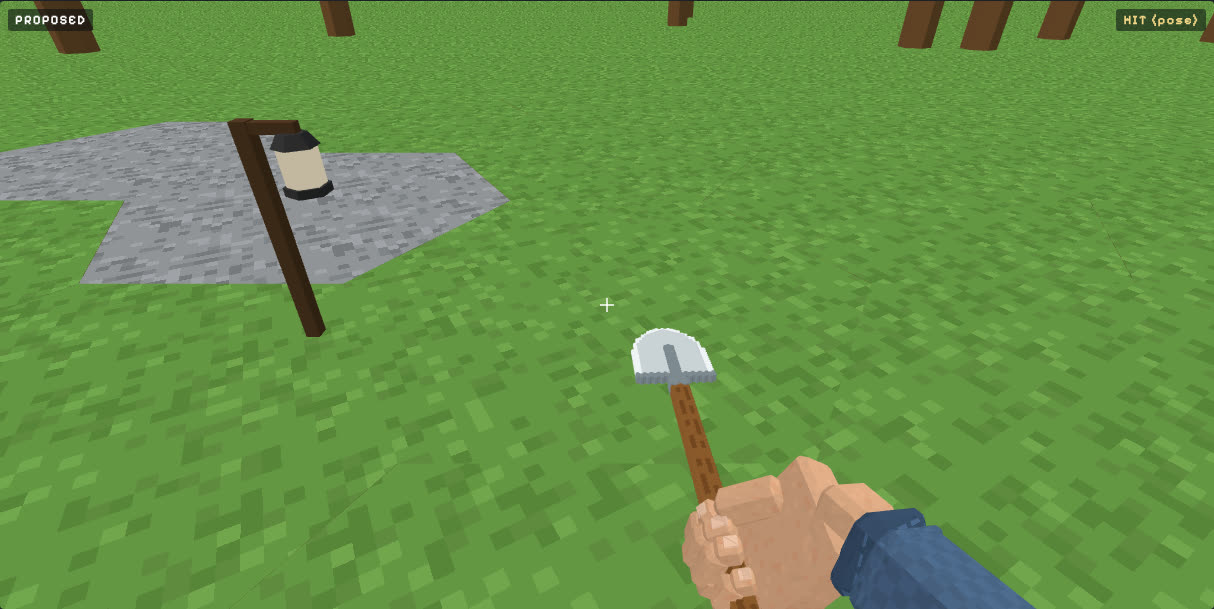
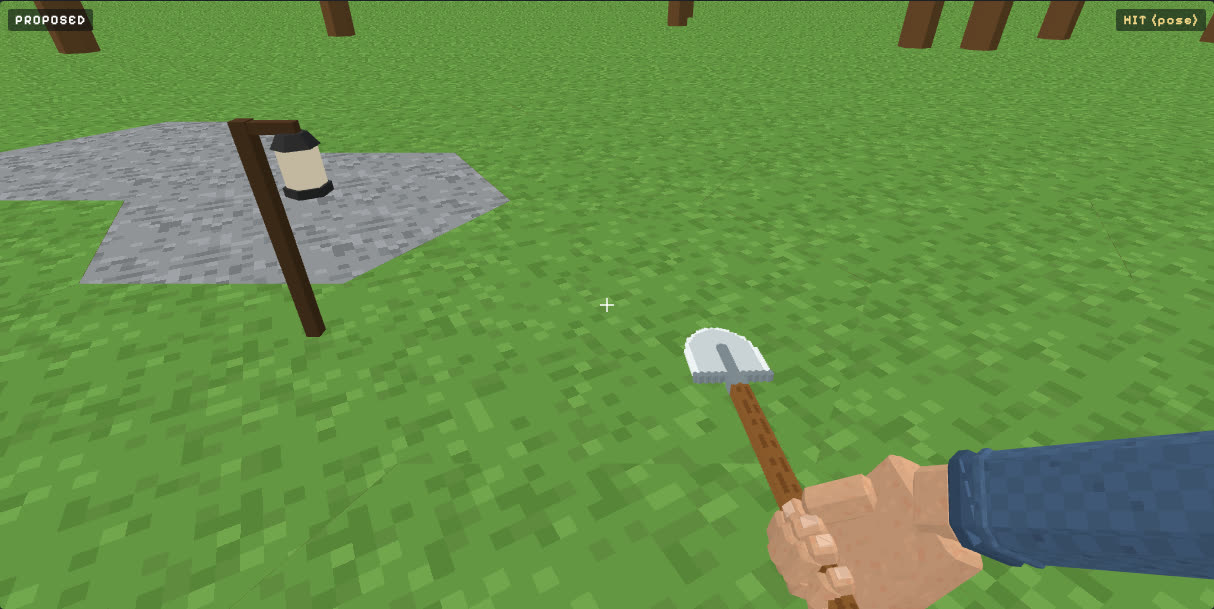
Tools in Hand v7: the shovel arm follows the spade's whole turn, a straight wrist (owner)
Claude-Session: https://claude.ai/code/session_01HdzuTLFpHQDj3CqFAuBEus

Changed region(s): [[0.5181, 0.5304, 1.0, 1.0]]

diff --git a/docs/mockups/tool-motion.html b/docs/mockups/tool-motion.html
@@ -116,7 +116,7 @@
         <li>The break times are the game's, <code>assets/config/dig.ron</code>: the stone tier's matrix (pickaxe on stone 1.2&nbsp;s, rock 1.6&nbsp;s, ore 2.0&nbsp;s; shovel on dirt 0.5&nbsp;s; axe on wood 0.6&nbsp;s) divided by the tier's speed (1, 1.6, 2.4, 3.6).</li>
         <li><strong>Today</strong> is the game's chop (<code>held::hold</code>): a sine at 9&nbsp;rad/s, <code>chop = sin(phase).max(-0.2)</code>, pitching the tool 0.85&nbsp;rad forward about a fixed fist and dropping it 6&nbsp;cm: a wrist flick, slowest at the moment it should land. It has no hits of its own, and letting go snaps the tool to rest.</li>
         <li>At the hit the arm also swings in toward the middle of the view (<code>sweep_rad</code>, about the shoulder's upright), so the head lands at the crosshair rather than off to the right where the fist rests.</li>
-        <li><strong>The shovel</strong> (the owner: <em>"shovel tips down and should move forward like a sliding motion into the dirt, tip and pull up dirt"</em>, with a GIF of a man digging a bank) has no overhead arc. The windup tips the spade down, <code>entry_deg</code> below the horizontal with the tip leading, and brings the fist low and back. The hit slides it forward along the ground into the dirt by <code>slide_m</code>, sinking <code>slide_drop_m</code>: a push, not a stab. The fist stays low: at the hit it is <code>fist_drop_m</code> below and <code>fist_fwd_m</code> ahead of where it rests, <code>across_m</code> in toward the middle. The recoil tips the spade about the point where the blade is in the dirt (<code>lever_rad</code>), then pulls the dirt up (<code>lift_m</code>) and back (<code>pull_m</code>) with a clump on the blade, which tips off as it returns. The arm follows only <code>arm_follow</code> of the spade's turn and the wrist takes the rest.</li>
+        <li><strong>The shovel</strong> (the owner: <em>"shovel tips down and should move forward like a sliding motion into the dirt, tip and pull up dirt"</em>, with a GIF of a man digging a bank) has no overhead arc. The windup tips the spade down, <code>entry_deg</code> below the horizontal with the tip leading, and brings the fist low and back. The hit slides it forward along the ground into the dirt by <code>slide_m</code>, sinking <code>slide_drop_m</code>: a push, not a stab. The fist stays low: at the hit it is <code>fist_drop_m</code> below and <code>fist_fwd_m</code> ahead of where it rests, <code>across_m</code> in toward the middle. The recoil tips the spade about the point where the blade is in the dirt (<code>lever_rad</code>), then pulls the dirt up (<code>lift_m</code>) and back (<code>pull_m</code>) with a clump on the blade, which tips off as it returns. The arm follows the spade's whole turn (<code>arm_follow</code> 1) and the fist stays on its own side (<code>across_m</code> 0), so the wrist never bends back; at the low tip-down the hand goes off the bottom of the view, as it would digging low (the owner: <em>"looks like it hurts the angle"</em>, then <em>"the camera just cant see the hand, which is fine"</em>).</li>
         <li>In Proposed the hand is the proposed hand (below), and its sleeve is <code>sleeve_extra</code> tool units longer at its far end, so the arm still runs off the screen at full reach.</li>
       </ul>
 
@@ -882,7 +882,7 @@ const ROD_DEF = { draw_rad: 0.9, cast_raise_m: 0.28, cast_back_m: 0.18, cast_rea
 const ROD_SL = [["draw_rad", 0, 1.6, 0.01], ["cast_raise_m", 0, 0.45, 0.005], ["cast_back_m", 0, 0.4, 0.005], ["cast_reach_m", 0, 0.2, 0.005], ["flick_rad", 0, 1, 0.01], ["flick_s", 0.04, 0.4, 0.01], ["flick_wobble_rad", 0, 0.2, 0.005], ["settle_rad", 0, 0.5, 0.01], ["bob_rad", 0, 0.08, 0.005], ["bob_hz", 0.1, 2, 0.05], ["nibble_rad", 0, 0.2, 0.005], ["nibble_s", 0.05, 0.5, 0.01], ["bite_rad", 0, 0.6, 0.01], ["bite_shake_rad", 0, 0.15, 0.005], ["bite_shake_hz", 2, 24, 0.5], ["fight_rad", 0, 1, 0.01], ["run_dip_rad", 0, 0.6, 0.01], ["fight_shake_rad", 0, 0.2, 0.005], ["fight_shake_hz", 2, 20, 0.5], ["crank_m", 0, 0.04, 0.001], ["crank_hz", 0.5, 6, 0.1], ["roll_rad", 0, 0.4, 0.01], ["catch_dip_rad", 0, 0.3, 0.01], ["catch_rad", 0, 1.2, 0.01], ["catch_s", 0.1, 1.5, 0.05], ["ease_s", 0.05, 1, 0.01], ["spring_hz", 1, 20, 0.5], ["damping", 0.1, 1.5, 0.01]];
 // The shovel's own stroke: tip down, slide forward into the dirt, tip
 // about the blade in the dirt, and pull the dirt up (shovelAt).
-const SHOVEL_DEF = { entry_deg: 6, slide_m: 0.28, slide_drop_m: 0.03, lever_rad: 0.5, lift_m: 0.14, pull_m: 0.05, scoop_s: 0.26, across_m: 0.12, arm_follow: 0.1, fist_drop_m: 0.04, fist_fwd_m: 0.12 };
+const SHOVEL_DEF = { entry_deg: 6, slide_m: 0.28, slide_drop_m: 0.03, lever_rad: 0.5, lift_m: 0.14, pull_m: 0.05, scoop_s: 0.26, across_m: 0.0, arm_follow: 1.0, fist_drop_m: 0.04, fist_fwd_m: 0.12 };
 const SHOVEL_SL = [["entry_deg", -20, 85, 1], ["slide_m", 0, 0.4, 0.005], ["slide_drop_m", 0, 0.1, 0.005], ["lever_rad", 0, 0.9, 0.01], ["lift_m", 0, 0.3, 0.005], ["pull_m", 0, 0.2, 0.005], ["scoop_s", 0.08, 0.5, 0.01], ["across_m", 0, 0.35, 0.01], ["arm_follow", 0, 1, 0.05], ["fist_drop_m", -0.1, 0.25, 0.005], ["fist_fwd_m", -0.1, 0.3, 0.005]];
 const ROD_GAME = ["draw_rad", "cast_raise_m", "cast_back_m", "cast_reach_m", "flick_rad", "flick_s", "settle_rad", "bob_rad", "bob_hz", "nibble_rad", "nibble_s", "bite_rad", "bite_shake_rad", "bite_shake_hz", "fight_rad", "fight_shake_rad", "fight_shake_hz", "crank_m", "crank_hz", "roll_rad", "catch_rad", "catch_s", "ease_s", "spring_hz", "damping"];
 const ST = Object.assign({}, STROKE_DEF), ROD = Object.assign({}, ROD_DEF), SHOVEL = Object.assign({}, SHOVEL_DEF);

diff --git a/docs/mockups/tracker.html b/docs/mockups/tracker.html
@@ -272,7 +272,7 @@ const MOCKUPS = [
     url: 'https://claude.ai/artifact/WzzTsEVPa3SviHQBfnanMo', published: '2026-11-16', version: 1,
     summary: 'The fall\'s mist and bubbles decided before the game: the game today, the draw order fixed, and new mist and bubbles with sliders for amount and size.' },
   { id: 'M36', batch: 'new', title: 'Tools in Hand', change: 'held-swing, rod-motion', page: 'docs/mockups/tool-motion.html',
-    url: 'https://claude.ai/artifact/Xx3xB3ouaKdJ2NdnxAL9PX', published: '2026-11-17', version: 6,
+    url: 'https://claude.ai/artifact/Xx3xB3ouaKdJ2NdnxAL9PX', published: '2026-11-17', version: 7,
     summary: 'Digging, chopping and fishing in first person: today\'s motion against the proposed strike and rod motion, by day and by lantern, with sliders.' },
   { id: 'M37', batch: 'new', title: 'Fish Behaviour', change: 'fish-behaviour', page: 'docs/mockups/fish-behaviour.html',
     url: 'https://claude.ai/artifact/BkznFkfte6Ph8GLKWfczUz', published: '2026-11-17', version: 2,

diff --git a/docs/mockups/mockup-work.md b/docs/mockups/mockup-work.md
@@ -128,7 +128,7 @@ Stages: **Listed** (not built), **Drafted** (published, waiting on the owner), *
 | M33 | Mission Tree | `mission-tree.html` | starter-missions | Approved for the game (2026-11-15, version 3: "that tree is better, I approve", "implement in game"); drafted (2026-11-15; "Maybe make a mock up of mission tree for me") | https://claude.ai/artifact/V1yL4DmywiEhC7Pv3AKjfY |
 | M34 | River Craft | `river-craft.html` | river-craft | Version 2 (2026-11-16: the Tube tab, "also what about innertubes?"); drafted (2026-11-16; "can you make a mock up of stuff like rafting physics? or design a boat that can tug other boats? log hauling? boats with nets, also anchoring") | https://claude.ai/artifact/93iZ1pBszzY8u6gmWZFRyJ |
 | M35 | Waterfall mist and bubbles | `waterfall-mist.html` (on `claude/fall-splash-order`) | water-flow | Approved for build and for the game (owner, 2026-11-16, in chat: "alright, I'm happy with this, send it yo", on version 22); the game port requested in the same message | https://claude.ai/artifact/WzzTsEVPa3SviHQBfnanMo |
-| M36 | Tools in Hand | `tool-motion.html` | held-swing, rod-motion, hand-model | Version 6 (2026-11-17: the shovel tips down, slides forward into the dirt, tips and pulls it up; the proposed thumb in two segments). Version 5 (2026-11-17: the cast raised above the shoulder, rod-motion decision 7; the step's videos at https://claude.ai/artifact/1WEmNQzutBwakLrzNWkA3A). Version 3 (2026-11-17: the game's reel fight, a Hand tab with a proposed hand, the four-stage strokes and the shovel's scoop); drafted (2026-11-17; "make a new mockup for all the tools stuff for digging, choppin and fishing") | https://claude.ai/artifact/Xx3xB3ouaKdJ2NdnxAL9PX |
+| M36 | Tools in Hand | `tool-motion.html` | held-swing, rod-motion, hand-model | Version 7 (2026-11-17: the shovel arm follows the whole turn, a straight wrist). Version 6 (2026-11-17: the shovel tips down, slides forward into the dirt, tips and pulls it up; the proposed thumb in two segments). Version 5 (2026-11-17: the cast raised above the shoulder, rod-motion decision 7; the step's videos at https://claude.ai/artifact/1WEmNQzutBwakLrzNWkA3A). Version 3 (2026-11-17: the game's reel fight, a Hand tab with a proposed hand, the four-stage strokes and the shovel's scoop); drafted (2026-11-17; "make a new mockup for all the tools stuff for digging, choppin and fishing") | https://claude.ai/artifact/Xx3xB3ouaKdJ2NdnxAL9PX |
 
 The thirteen of 2026-11-12 were published as one batch. Their commit (`d468860`) says "Fourteen",
 but it names thirteen subjects, and thirteen pages were published.

diff --git a/openspec/changes/held-swing/design.md b/openspec/changes/held-swing/design.md
@@ -123,6 +123,13 @@
    - **Pull up:** the spade rises and draws back toward the player with a
      clump of dirt on it (`lift_m` 0.14 up, `pull_m` 0.05 back).
    - **Return:** the clump tips off as the spade returns to rest.
+   - **A straight wrist:** the arm follows the spade's whole turn
+     (`arm_follow` 1) and the fist stays on its own side (`across_m` 0), so
+     the wrist never bends back against the handle (owner, 2026-11-17: "looks
+     like it hurst the angle"). Low in the stroke the hand leaves the bottom
+     of the view, and that is fine (owner: "that might be a situation where
+     the camera just cant see the hand, which is fine ... if the player looked
+     down far enough they would see the arm digging").
 
    The proposed hand's thumb has two segments, not three (owner, 2026-11-17:
    "Two thumbs segments not 3"); that is `hand-model`'s.
